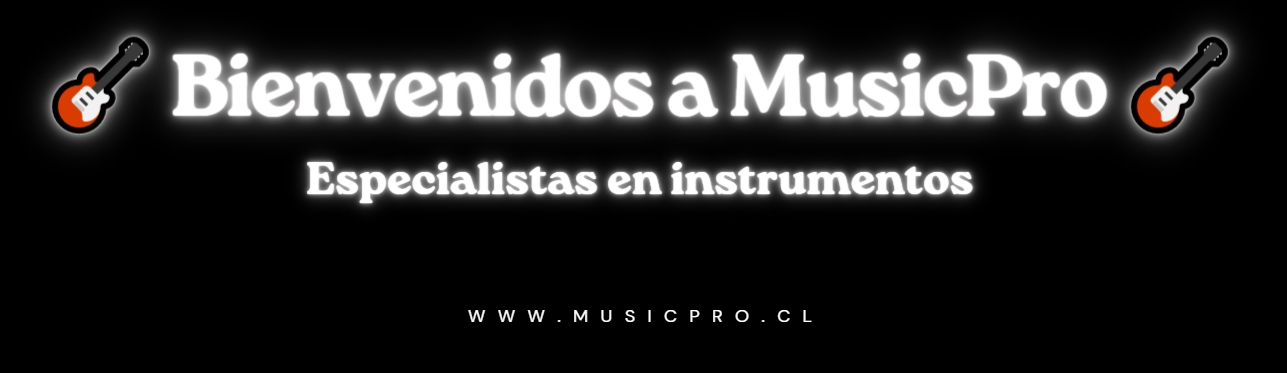
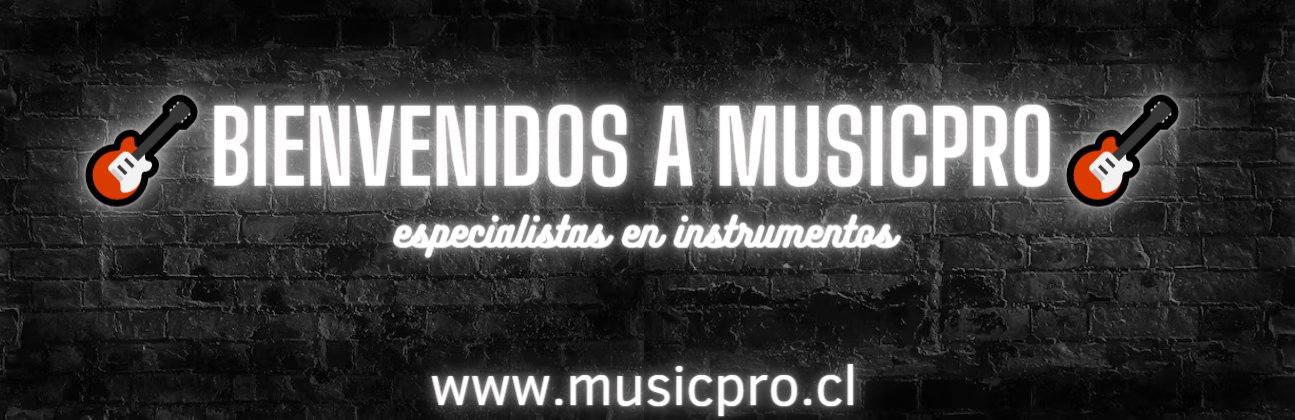
CAMBIOS REALIZADOS PÁGINA PRINCIPAL
Observación: Faltan los diseños de los botones al comprar y estaría todo terminado en este apartado....

diff --git a/core/templates/core/Principal.html b/core/templates/core/Principal.html
@@ -10,11 +10,154 @@
 
 <div class="contenido">
         
-    <img src="{% static 'core/imagenes/Fondo.jpg' %}" alt="">
+    <img class="fondoDiseño" src="{% static 'core/imagenes/Fondo.jpg' %}" alt="">
+    <img class="bannerDiseño" src="{% static 'core/imagenes/banner.png' %}" alt="">
 
+    <img class="imagenCatalogo" src="{% static 'core/imagenes/catalogo.png' %}" alt="">
+    
     <div class="content">
         
-    </div>
+        <div id="cartas">
+            <div class="card">
+              
+              <div class="card-body">
+                <img src="{% static 'core/imagenes/guitarra.png' %}" class="imagenCarta" alt="...">
+                <h5 class="card-title">Hola</h5>
+                <p class="card-text">Precio descuento: $ 1111</p>
+                <p class="card-text">Precio: 2222</p>
+                <p class="card-text">Stock: 4</p>
+                <p class="card-text">Descuento: 20%</p>
+                <a href="#" class="btn1">Comprar</a>
+              </div>
+            </div>
+        </div>
 
+        <div id="cartas">
+            <div class="card">
+              
+              <div class="card-body">
+                <img src="{% static 'core/imagenes/guitarra.png' %}" class="imagenCarta" alt="...">
+                <h5 class="card-title">Hola</h5>
+                <p class="card-text">Precio descuento: $ 1111</p>
+                <p class="card-text">Precio: 2222</p>
+                <p class="card-text">Stock: 4</p>
+                <p class="card-text">Descuento: 20%</p>
+                <a href="#" class="btn1">Comprar</a>
+              </div>
+            </div>
+        </div>
+        <div id="cartas">
+            <div class="card">
+              
+              <div class="card-body">
+                <img src="{% static 'core/imagenes/guitarra.png' %}" class="imagenCarta" alt="...">
+                <h5 class="card-title">Hola</h5>
+                <p class="card-text">Precio descuento: $ 1111</p>
+                <p class="card-text">Precio: 2222</p>
+                <p class="card-text">Stock: 4</p>
+                <p class="card-text">Descuento: 20%</p>
+                <a href="#" class="btn1">Comprar</a>
+              </div>
+            </div>
+        </div>
+        <div id="cartas">
+            <div class="card">
+              
+              <div class="card-body">
+                <img src="{% static 'core/imagenes/guitarra.png' %}" class="imagenCarta" alt="...">
+                <h5 class="card-title">Hola</h5>
+                <p class="card-text">Precio descuento: $ 1111</p>
+                <p class="card-text">Precio: 2222</p>
+                <p class="card-text">Stock: 4</p>
+                <p class="card-text">Descuento: 20%</p>
+                <a href="#" class="btn1">Comprar</a>
+              </div>
+            </div>
+        </div>
+        <div id="cartas">
+            <div class="card">
+              
+              <div class="card-body">
+                <img src="{% static 'core/imagenes/guitarra.png' %}" class="imagenCarta" alt="...">
+                <h5 class="card-title">Hola</h5>
+                <p class="card-text">Precio descuento: $ 1111</p>
+                <p class="card-text">Precio: 2222</p>
+                <p class="card-text">Stock: 4</p>
+                <p class="card-text">Descuento: 20%</p>
+                <a href="#" class="btn1">Comprar</a>
+              </div>
+            </div>
+        </div>
+        <div id="cartas">
+            <div class="card">
+              
+              <div class="card-body">
+                <img src="{% static 'core/imagenes/guitarra.png' %}" class="imagenCarta" alt="...">
+                <h5 class="card-title">Hola</h5>
+                <p class="card-text">Precio descuento: $ 1111</p>
+                <p class="card-text">Precio: 2222</p>
+                <p class="card-text">Stock: 4</p>
+                <p class="card-text">Descuento: 20%</p>
+                <a href="#" class="btn1">Comprar</a>
+              </div>
+            </div>
+        </div>
+        <div id="cartas">
+            <div class="card">
+              
+              <div class="card-body">
+                <img src="{% static 'core/imagenes/guitarra.png' %}" class="imagenCarta" alt="...">
+                <h5 class="card-title">Hola</h5>
+                <p class="card-text">Precio descuento: $ 1111</p>
+                <p class="card-text">Precio: 2222</p>
+                <p class="card-text">Stock: 4</p>
+                <p class="card-text">Descuento: 20%</p>
+                <a href="#" class="btn1">Comprar</a>
+              </div>
+            </div>
+        </div>
+        <div id="cartas">
+            <div class="card">
+              
+              <div class="card-body">
+                <img src="{% static 'core/imagenes/guitarra.png' %}" class="imagenCarta" alt="...">
+                <h5 class="card-title">Hola</h5>
+                <p class="card-text">Precio descuento: $ 1111</p>
+                <p class="card-text">Precio: 2222</p>
+                <p class="card-text">Stock: 4</p>
+                <p class="card-text">Descuento: 20%</p>
+                <a href="#" class="btn1">Comprar</a>
+              </div>
+            </div>
+        </div>
+        <div id="cartas">
+            <div class="card">
+              
+              <div class="card-body">
+                <img src="{% static 'core/imagenes/guitarra.png' %}" class="imagenCarta" alt="...">
+                <h5 class="card-title">Hola</h5>
+                <p class="card-text">Precio descuento: $ 1111</p>
+                <p class="card-text">Precio: 2222</p>
+                <p class="card-text">Stock: 4</p>
+                <p class="card-text">Descuento: 20%</p>
+                <a href="#" class="btn1">Comprar</a>
+              </div>
+            </div>
+        </div>
+        <div id="cartas">
+            <div class="card">
+              
+              <div class="card-body">
+                <img src="{% static 'core/imagenes/guitarra.png' %}" class="imagenCarta" alt="...">
+                <h5 class="card-title">Hola</h5>
+                <p class="card-text">Precio descuento: $ 1111</p>
+                <p class="card-text">Precio: 2222</p>
+                <p class="card-text">Stock: 4</p>
+                <p class="card-text">Descuento: 20%</p>
+                <a href="#" class="btn1">Comprar</a>
+              </div>
+            </div>
+        </div>
+        
 </div>
 {% endblock %}

diff --git a/core/static/core/css/Principal.css b/core/static/core/css/Principal.css
@@ -4,10 +4,10 @@
 }
 
 .contenido{
-    height: 100%;
     width: 100%;
     background-image: url(/static/core/imagenes/Fondo.jpg);
     position: relative;
+    padding-bottom: 1%;
 }
 
 /* .imagenBanner{
@@ -32,14 +32,58 @@
 .content{
     display: flex;
     padding-top: 20px;
-    padding-bottom: 20px;
-    justify-content: space-around;
-    height: 100%;
+    justify-content: center;
+    flex-wrap: wrap;
+    height: auto;
     width: 90%;
     margin-left: 5%;
     margin-right: 5%;
     backdrop-filter: blur(4px);
-    border-radius: 50px;
-    position: absolute;
-    top: 6.5%;
+    border-radius: 30px;
+    position: relative;
 }
+
+.imagenCatalogo{
+    height: 20%;
+    width: 100%;
+    padding-bottom: 3%;
+    padding-top: 45%;
+    position: relative;
+}
+.fondoDiseño{
+    position: absolute;
+}
+
+.bannerDiseño{
+    width: 100%;
+    padding: 5% 0px 5% 0px;
+    position: absolute;
+}
+
+#cartas{
+    margin: 30px 30px 30px 30px;
+}
+
+.card{
+    width: 15rem;
+    border-radius: 30px;
+    height: auto;
+}
+
+.imagenCarta{
+    width: 230px;
+    height: 200px;
+    border-radius: 20px;
+}
+
+.card-body{
+    display: flex;
+    flex-direction: column;
+    align-items: center;
+    position: relative;
+}
+
+.card-title{
+    padding-top: 15px;
+}
+

diff --git a/core/static/core/css/Template.css b/core/static/core/css/Template.css
@@ -87,17 +87,15 @@ button{
 }
 
 
-
-
 /* ACA EL FOOTER */
 
 
-
-
 footer{
-    margin-top: 2%;
+    margin-top: 10px;
+    width: 100%;
     padding: 10px 10px 10px 10px;
     background-color: black;
+    position: absolute;
 }
 
 .links{
@@ -133,9 +131,10 @@ footer{
 }
 
 .imagenPago{
-    width: 300px;
+    padding-top: 2%;
+    width: 330px;
     height: 150px;
-    padding-top: 20px;
+    padding-right: 2%;
 }
 
 .metodosPago{
@@ -144,5 +143,6 @@ footer{
     align-items: center;
     padding-top: 10px;
     color: white;
-    padding-right: 5%;
+    padding-right: 2%;
+    box-shadow: white;
 }

diff --git a/core/templates/core/Template.html b/core/templates/core/Template.html
@@ -54,8 +54,9 @@
         </nav>
     </header>
 
-        {% block contenido %}
-        {% endblock %}
+    {% block contenido %}
+    {% endblock %}
+
 
     <footer>
         <div class="info">
